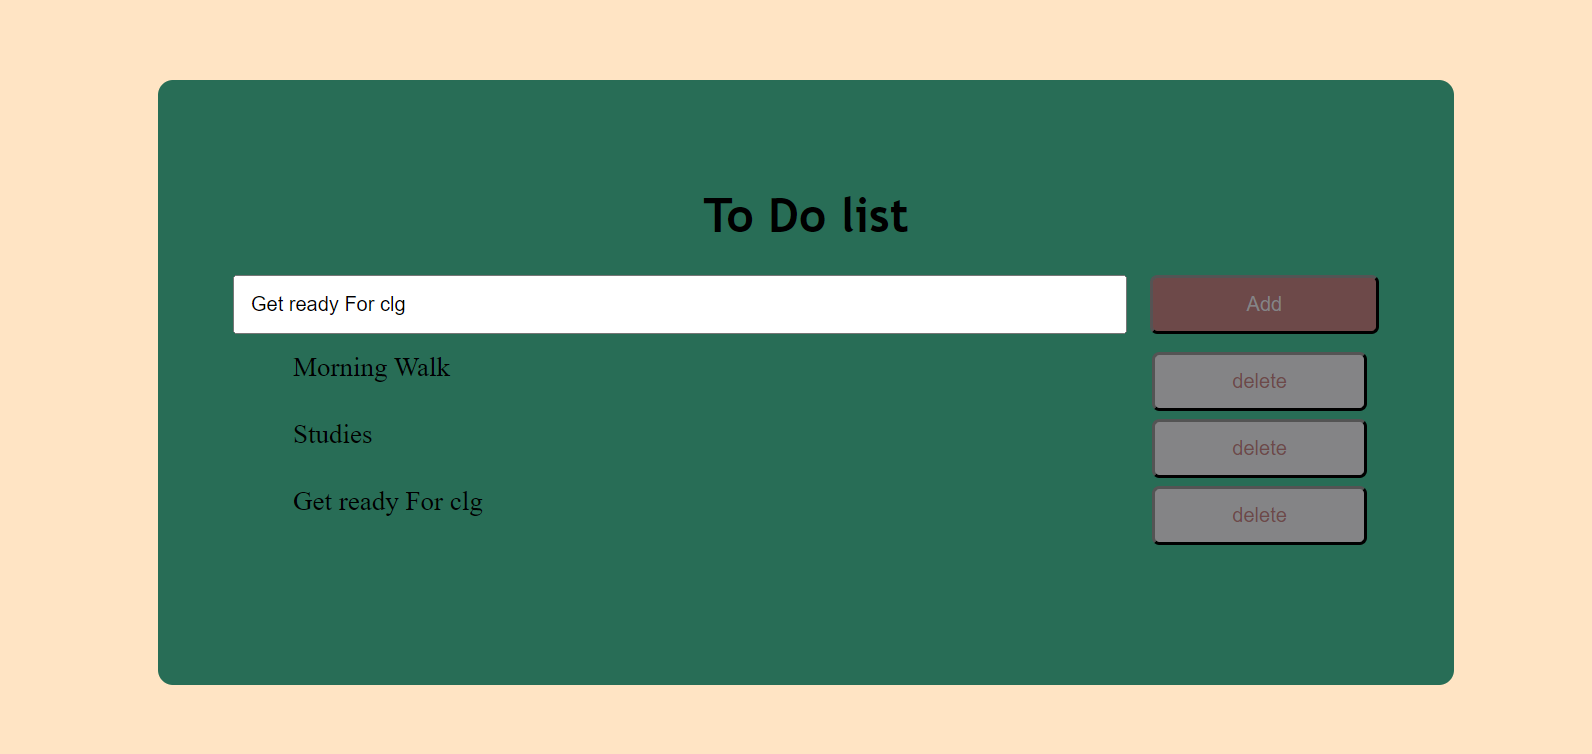
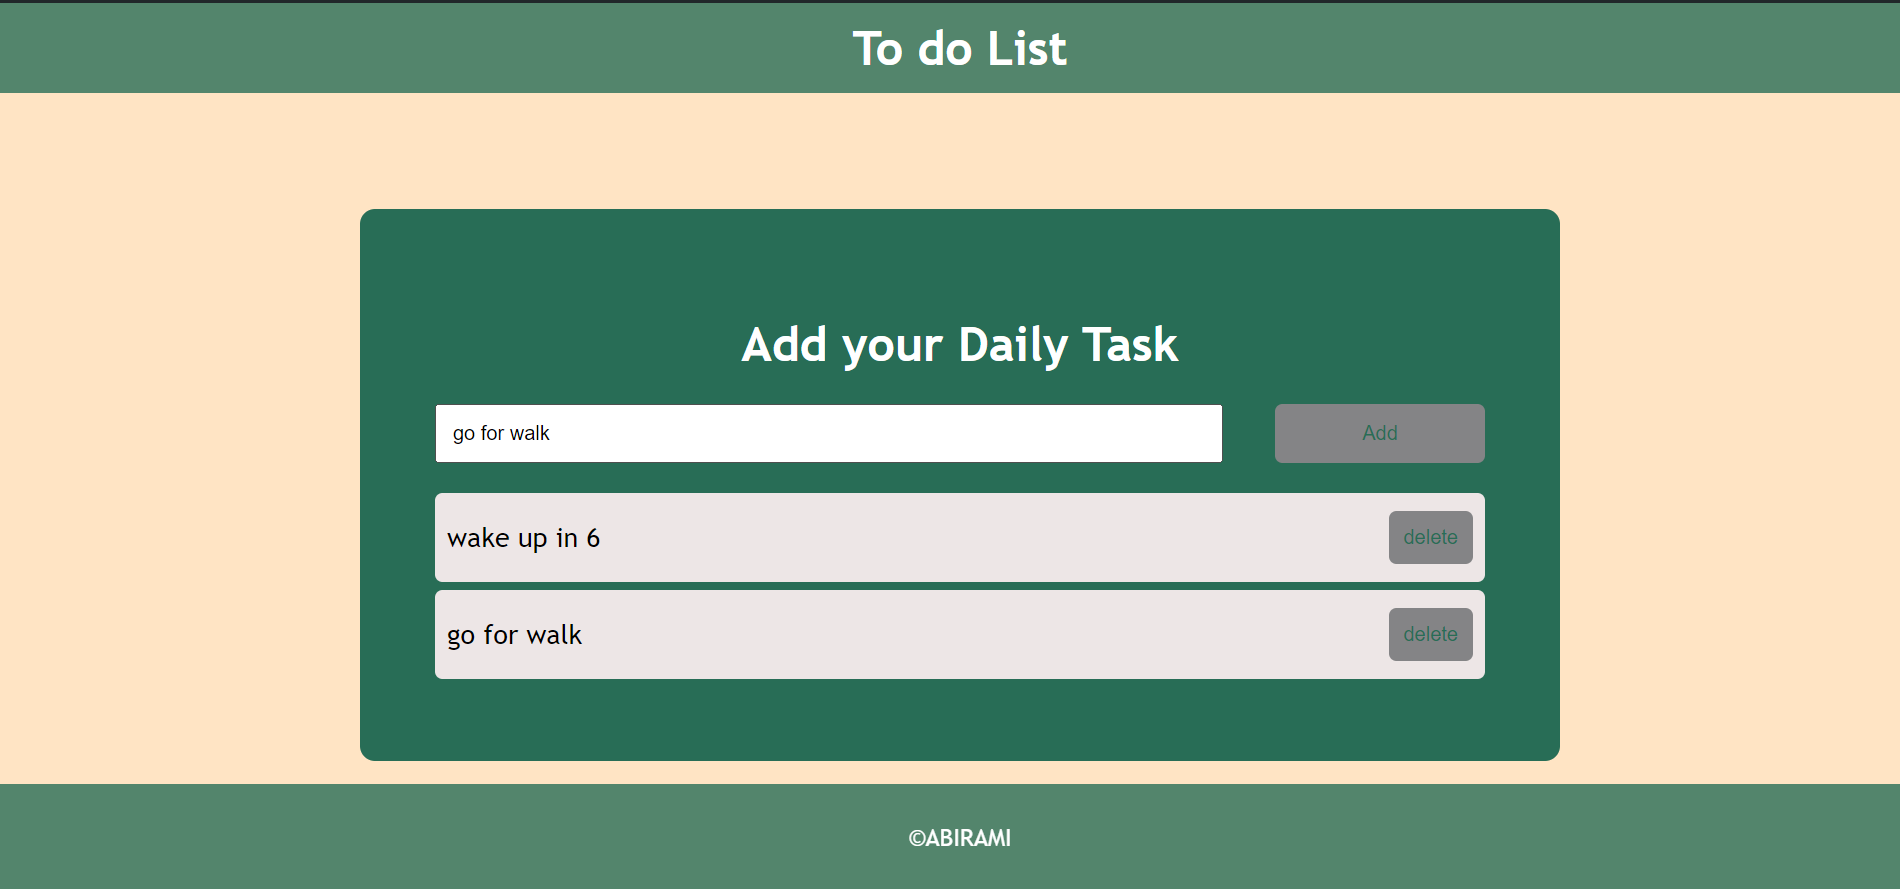
files included

diff --git a/mini projects/todo.css b/mini projects/todo.css
@@ -1,0 +1,148 @@
+body {
+    background-color: bisque;
+    margin: 0;
+    padding: 0;
+    font-family: 'Trebuchet MS', 'Lucida Sans Unicode', 'Lucida Grande', 'Lucida Sans', Arial, sans-serif;
+}
+
+header {
+    background-color: rgba(40, 109, 86, 0.8); /* Adjust alpha value for transparency */
+    color: white;
+    display: flex;
+    justify-content: center;
+    align-items: center;
+    height: 60px;
+    margin-bottom: 20px;
+    padding: 10px 20px;
+    box-sizing: border-box;
+}
+
+header h2 {
+    margin: 0;
+    font-size: 24px;
+}
+
+#box {
+    padding: 50px;
+    background-color: rgb(40, 109, 86);
+    margin: 20px auto;
+    border-radius: 10px;
+    max-width: 800px;
+    width: calc(100% - 40px);
+    box-sizing: border-box;
+    color: white;
+}
+
+#input-container {
+    display: flex;
+    justify-content: space-between;
+    margin-bottom: 20px;
+    width: 100%;
+}
+
+input {
+    width: 75%;
+    padding: 10px;
+    box-sizing: border-box;
+}
+
+#btn {
+    padding: 10px;
+    width: 20%;
+    cursor: pointer;
+    background-color: rgb(132, 132, 134);
+    color: rgb(40, 109, 86);
+    border-radius: 5px;
+    border: none;
+}
+
+ul {
+    margin: 0;
+    padding: 0;
+    list-style: none;
+}
+
+.list-item {
+    display: flex;
+    justify-content: space-between;
+    align-items: center;
+    padding: 12px 8px;
+    font-size: 18px;
+    transition: 0.2s;
+    background-color: #ede6e6;
+    margin-bottom: 5px;
+    border-radius: 5px;
+    color: black;
+}
+
+.delete-btn {
+    padding: 10px;
+    cursor: pointer;
+    background-color: rgb(132, 132, 134);
+    color: rgb(40, 109, 86);
+    border-radius: 5px;
+    border: none;
+}
+
+.delete-btn:hover {
+    background-color: rgb(109, 73, 73);
+    color: rgb(132, 132, 134);
+}
+
+footer {
+    background-color: rgba(40, 109, 86, 0.8); /* Adjust alpha value for transparency */
+    color: white;
+    text-align: center;
+    padding: 10px 0;
+    position: fixed;
+    bottom: 0;
+    width: 100%;
+    box-sizing: border-box;
+}
+
+/* Media Queries for Responsive Design */
+@media (max-width: 768px) {
+    header, footer {
+        padding: 10px;
+        font-size: 20px;
+    }
+
+    #box {
+        padding: 30px;
+    }
+
+    input {
+        width: 70%;
+    }
+
+    #btn {
+        width: 25%;
+    }
+
+    h1, header, footer {
+        font-size: 20px;
+    }
+}
+
+@media (max-width: 480px) {
+    header, footer {
+        padding: 10px;
+        font-size: 18px;
+    }
+
+    #box {
+        padding: 20px;
+    }
+
+    input {
+        width: 65%;
+    }
+
+    #btn {
+        width: 30%;
+    }
+
+    h1, header, footer {
+        font-size: 18px;
+    }
+}

diff --git a/mini projects/guess game.html b/mini projects/guess game.html
@@ -1,0 +1,53 @@
+<!DOCTYPE html>
+<html lang="en">
+<head>
+    <meta charset="UTF-8">
+    <meta name="viewport" content="width=device-width, initial-scale=1.0">
+    <title>Guess it</title>
+    <link rel="stylesheet" href="guess games.css">
+</head>
+<body>
+    <header>
+        <h1>Welcome to the Guessing Game!</h1>
+    </header>
+
+    <main>
+        <div id="one">
+            <h1>Guess the number</h1>
+            <center><input type="number" id="gn" placeholder="Enter your number"></center>  
+            <center><button onclick="guess()">Guess it</button></center> 
+            <center><p id="result"></p></center> 
+            <center><p id="score"></p></center> 
+        </div>
+    </main>
+
+    <footer>
+        <p>&copy; ABIRAMI</p>
+    </footer>
+
+    <script>
+        var guessnumber = document.getElementById("gn");
+        var result = document.getElementById("result");
+        var randomnumber = Math.floor(Math.random() * 10) + 1;
+        var score = document.getElementById("score");
+        var totalscore = 50;
+
+        function guess() {
+            var enterednumber = guessnumber.value;
+            if (randomnumber == enterednumber) {
+                console.log("Wow you're right Fantastic!!");
+                result.textContent = "Right";
+                alert("You won!");
+                totalscore = totalscore + 1;
+                score.textContent = "Score = " + totalscore;
+            } else {
+                console.log("Aww that's wrong");
+                result.textContent = "Wrong";
+                alert("Wrong guess, try again!");
+                totalscore = totalscore - 1;
+                score.textContent = "Score = " + totalscore;
+            }
+        }
+    </script>
+</body>
+</html>

diff --git a/mini projects/guess games.css b/mini projects/guess games.css
@@ -1,0 +1,67 @@
+body {
+    margin: 0;
+    display: flex;
+    flex-direction: column;
+    min-height: 100vh;
+}
+
+header {
+    background-color: rgba(74, 161, 178, 0.8); /* Adjust the alpha value for transparency */
+    padding: 20px;
+    text-align: center;
+    font-family: Arial, Helvetica, sans-serif;
+}
+
+main {
+    flex: 1;
+    display: flex;
+    justify-content: center;
+    align-items: center;
+}
+
+#one {
+    background-color: rgb(74, 161, 178);
+    margin: 50px 300px;
+    padding: 70px 100px 100px 100px;
+    border-radius: 10px;
+}
+
+h1 {
+    font-family: Arial, Helvetica, sans-serif;
+    text-align: center;
+}
+
+#gn {
+    text-align: center;
+    padding: 10px;
+    font-size: larger;
+    border-radius: 10px;
+}
+
+button {
+    margin-top: 10px;
+    padding: 10px;
+    font-size: large;
+    background-color: black;
+    color: rgb(245, 245, 245);
+    border-radius: 5px;
+}
+
+button:hover {
+    background-color: gray;
+    color: rgb(7, 7, 7);
+    transition: 1s;
+}
+
+p {
+    font-size: larger;
+    font-family: Arial, Helvetica, sans-serif;
+    color: rgb(12, 13, 13);
+}
+
+footer {
+    background-color: rgba(74, 161, 178, 0.8); /* Adjust the alpha value for transparency */
+    padding: 10px;
+    text-align: center;
+    font-family: Arial, Helvetica, sans-serif;
+}

diff --git a/mini projects/todo.html b/mini projects/todo.html
@@ -1,0 +1,41 @@
+<html>
+<head>
+    <title>Todo list</title>
+    <link rel="stylesheet" href="todo.css">
+</head>
+<body><header><center><h1>To do List</h1></center></header>
+    <br><br>
+    <div id="box">
+        <center><h1>Add your Daily Task</h1></center>
+        <div id="input-container">
+            <input id="input">
+            <button onclick="add()" id="btn">Add</button>
+        </div>
+        <ul id="list">
+            <li class="list-item">
+                <span>hello</span>
+                <button onclick="deleteitem(event)" class="delete-btn">delete</button>
+            </li>
+        </ul>
+
+    </div>
+    <footer>
+        <p>&copy;ABIRAMI</p>
+    </footer>
+    <script>
+        var input = document.getElementById("input");
+        var ul = document.getElementById("list");
+
+        function add() {
+            var newlist = document.createElement("li");
+            newlist.className = 'list-item';
+            newlist.innerHTML = "<span>" + input.value + "</span> <button onclick='deleteitem(event)' class='delete-btn'>delete</button>";
+            ul.append(newlist);
+        }
+
+        function deleteitem(event) {
+            event.target.parentNode.remove();
+        }
+    </script>
+</body>
+</html>

diff --git a/index.html b/index.html
@@ -139,7 +139,7 @@
       <div class="contact-content">
         <h2>Contact Me</h2>
         <p class="mail">
-          Get in touch with me <i class="fas fa-arrow-right"></i>@abhisubhijeya@gmail.com
+          Get in touch with me <i class="fas fa-arrow-right"></i><a href="abhisubhijeya@gmail.com">@abhisubhijeya@gmail.com</a>
         </p>
         <p class="links">Or find me on:</p>
         <a href="https://www.linkedin.com/in/abirami-jeyakumar-611460267?utm_source=share&utm_campaign=share_via&utm_content=profile&utm_medium=android_app" target="blank"><i class="fab fa-linkedin">
